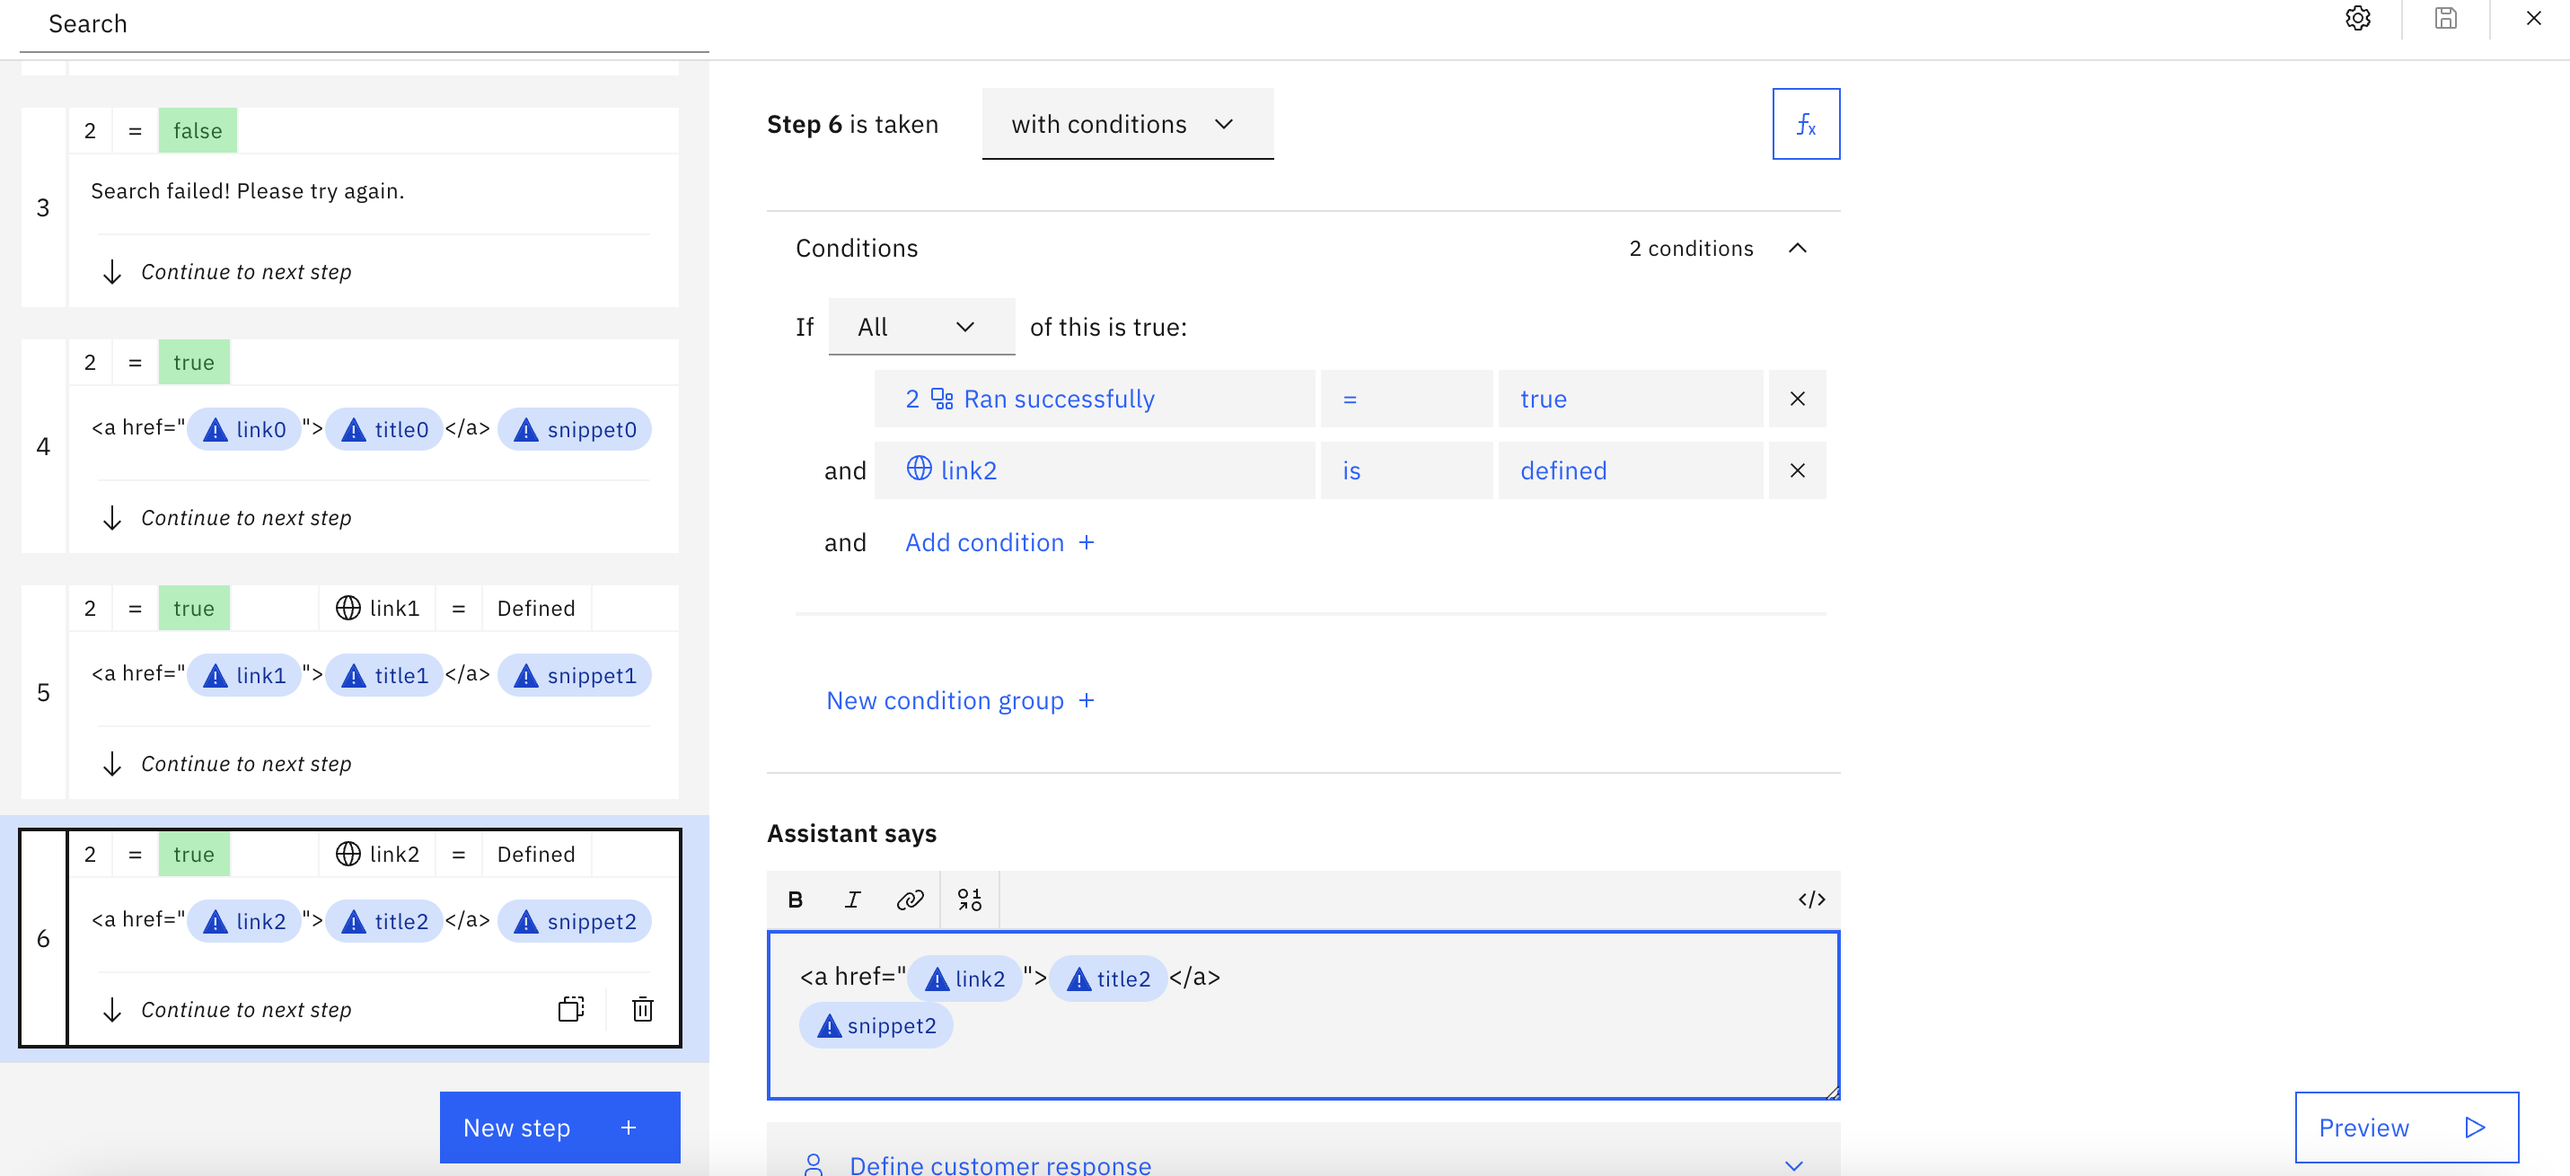
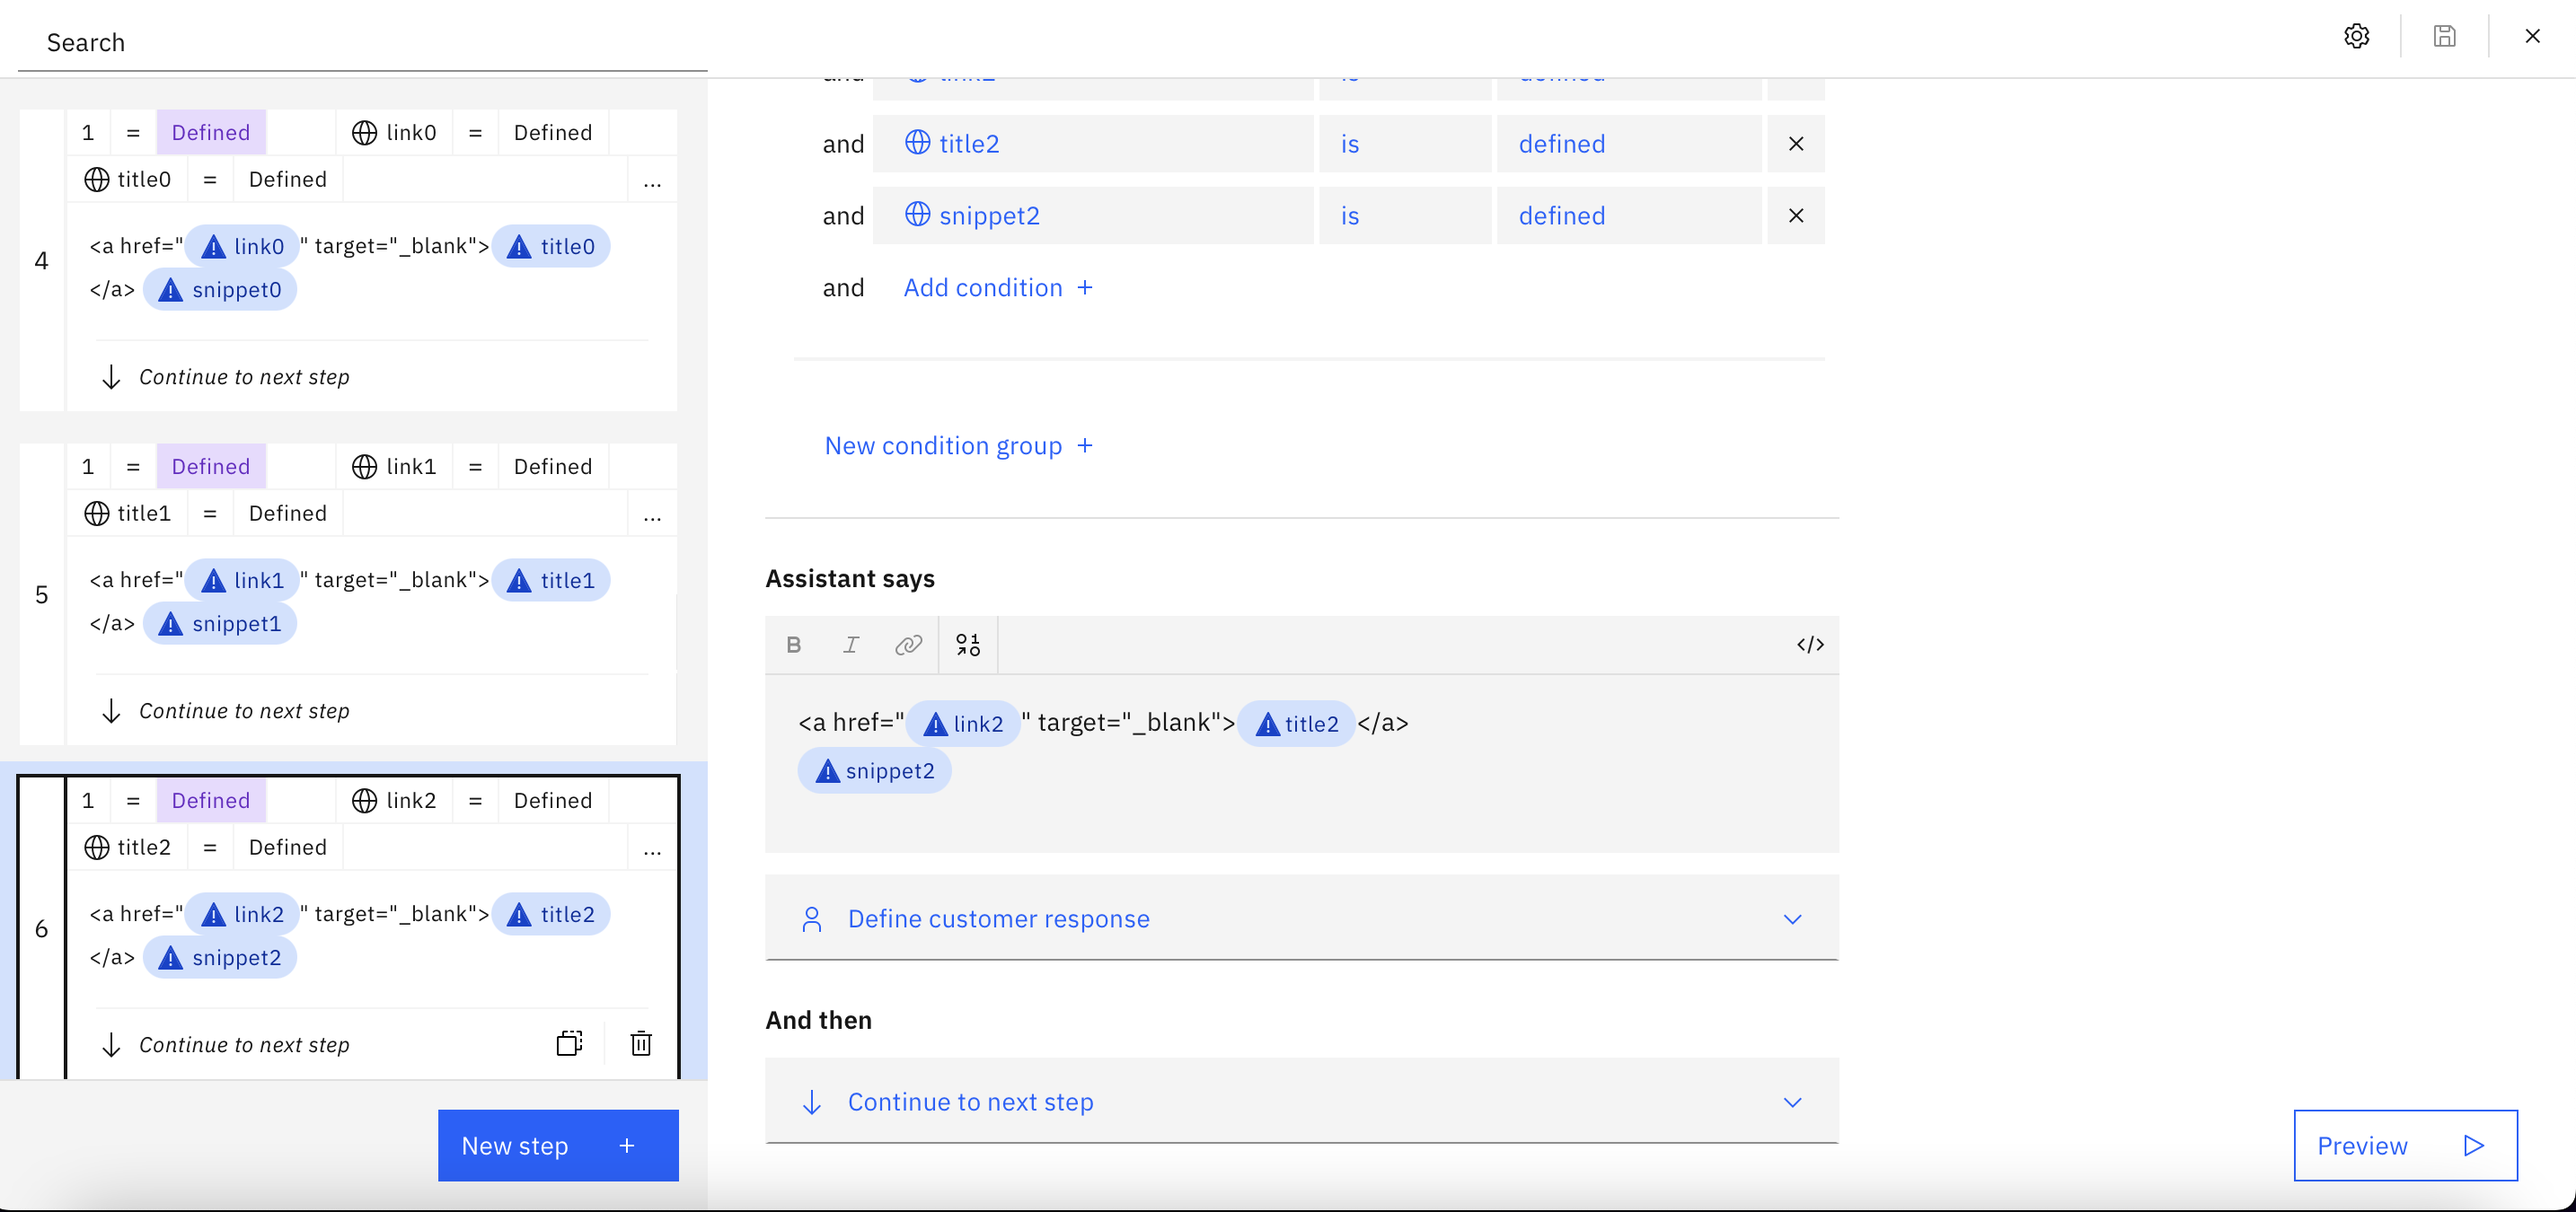
update images and add action fallback

diff --git a/integrations/extensions/starter-kits/coveo/README.md b/integrations/extensions/starter-kits/coveo/README.md
@@ -69,7 +69,7 @@ title2 = ${step_123_result_1}.body.items.get(2).title
 snippet2 = ${step_123_result_1}.body.items.get(2).excerpt
 ```
 
-![Map variables to results](./assets/set_variables.png)<br>
+![Map variables to results](./assets/search_passed.png)<br>
 
 - Click "New Step" and also change "without conditions" to "with conditions" and select "Ran successfully" is "true" and "link0" is "defined".  Then add the following to the "Assistant says":
 
@@ -103,6 +103,7 @@ ${snippet2}
 - You may also want to go to "Actions" > "Set by assistant" > "Fallback" and do the same thing as in the previous step.  Note, however, that this will prevent your assistant from escalating to a human agent when a customer asks to connect to a human agent (which is part of the default behavior for "Fallback") so only do this if you do not have your bot connected to a human agent chat service.  For more details on connecting to human agents within Watson Assistant see [our documentation](https://cloud.ibm.com/docs/watson-assistant?topic=watson-assistant-human-agent) and [blog post](https://medium.com/ibm-watson/bring-your-own-service-desk-to-watson-assistant-b39bc920075c).
 - Go to the Search action and remove "Search" from the "Customer starts with" list so that the search action _only_ triggers via the "Go to another action" settings described in steps above.  If you skip this, then the "Search" action will also be considered by the intent recognizer as a possible intent, which adds unnecessary complexity to the intent recognition and thus could result in lower overall intent recognition accuracy.
 
+![Create no action matches fallback](./assets/no_action_fallback_search.png)<br>
 ## Using this Starter Kit
 
 Once this starter kit is properly installed, you can issue a query to your bot and if there is no other action that you've configured that matched that query then it will generate search results for that query.
